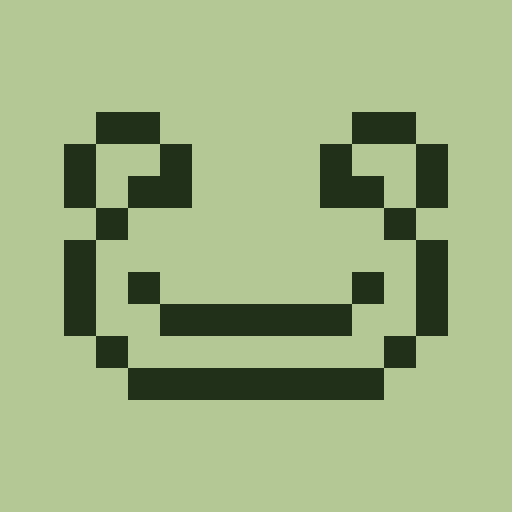
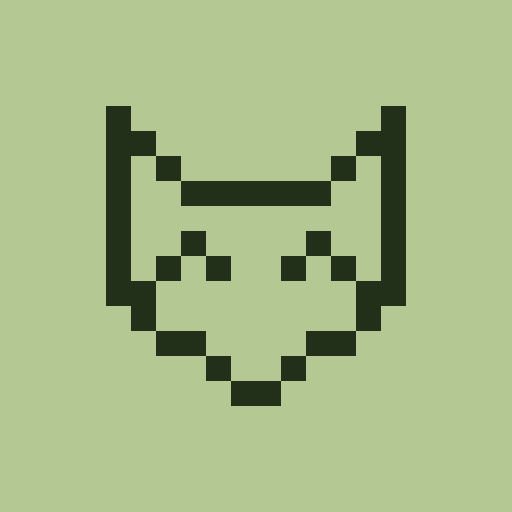
Fox, owl and witch moods; align bars; hide pace tick when over

Changed region(s): [[0.125, 0.1875, 0.875, 0.8125], [0.75, 0.6562, 0.8125, 0.7188], [0.1875, 0.6562, 0.25, 0.7188]]

diff --git a/index.html b/index.html
@@ -23,19 +23,22 @@ body{margin:0;min-height:100vh;background:radial-gradient(circle at 50% 0,#1d3a2
 .top{display:flex;justify-content:space-between;align-items:center;font-size:24px}
 .lcd button{background:none;border:0;font:inherit;color:inherit;cursor:pointer;padding:0 4px}
 .hero{display:flex;align-items:center;gap:8px;margin:4px 0 6px}
-#pet{width:56px;height:42px;flex:none;shape-rendering:crispEdges;fill:var(--lcdi)}
+#pet{width:56px;height:56px;flex:none;shape-rendering:crispEdges;fill:var(--lcdi)}
 #pet .w{fill:var(--wine)}
 #say{font-size:20px;white-space:nowrap;min-width:0;overflow:hidden;text-overflow:ellipsis}
 #cats .sal{padding-bottom:4px;margin-bottom:4px;border-bottom:1px dashed #22301a55}
 .s0 #pet{animation:hop 1.4s steps(1) infinite}
+.s1 #pet{animation:lk 2.4s steps(1) infinite}
 .s2 #pet{animation:sh .5s steps(1) infinite}
+@keyframes lk{33%{transform:translateX(-2px)}66%{transform:translateX(2px)}}
 .s2 #say{color:var(--wine);animation:bl 1s steps(1) infinite}
 @keyframes hop{50%{transform:translateY(-3px)}}
 @keyframes sh{25%{transform:translateX(-2px)}75%{transform:translateX(2px)}}
 @keyframes bl{50%{opacity:0}}
 @media(prefers-reduced-motion:reduce){*{animation:none!important}}
 #tot{font-size:clamp(40px,12vw,56px);line-height:1;margin-left:auto}
-#cats div{display:grid;grid-template-columns:80px 1fr auto;gap:8px;align-items:center;font-size:19px;line-height:1.2;cursor:pointer}
+#cats{display:grid;grid-template-columns:80px 1fr auto;column-gap:8px}
+#cats div{grid-column:1/-1;display:grid;grid-template-columns:subgrid;align-items:center;font-size:19px;line-height:1.2;cursor:pointer}
 #cats span{overflow:hidden;white-space:nowrap}
 .m{position:relative;display:grid;grid-template-columns:repeat(12,1fr);gap:1px;height:10px}
 .m i{background:#22301a26}
@@ -103,10 +106,10 @@ const h=s=>String(s).replace(/[&<>"]/g,c=>'&#'+c.charCodeAt(0)+';');
 const today=()=>{const t=new Date();return`${t.getFullYear()}-${pad(t.getMonth()+1)}-${pad(t.getDate())}`};
 const dl=(name,txt,type)=>{const a=document.createElement('a');a.href=URL.createObjectURL(new Blob([txt],{type}));a.download=name;a.click()};
 
-const PET=[ // frog: calm, uneasy, alarmed
- ['.11......11.','1..1....1..1','1.11....11.1','.1........1.','1..........1','1.1......1.1','1..111111..1','.1........1.','..11111111..'],
- ['.11......11.','1..1....1..1','1..11...1.11','.1........1.','1..........1','1..........1','1..111111..1','.1........1.','..11111111..'],
- ['.11......11.','1..1....1..1','1.11....11.1','.1........1.','1....22....1','1...2..2...1','1...2..2...1','.1...22...1.','..11111111..']];
+const PET=[ // fox: happy, owl: cautious, witch: mad
+ ['1..........1','11........11','1.1......1.1','1..111111..1','1..........1','1..1....1..1','1.1.1..1.1.1','11........11','.1........1.','..11....11..','....1..1....','.....11.....'],
+ ['.1........1.','.11......11.','.1.111111.1.','1..........1','1.111..111.1','1.1.1..1.1.1','1.111..111.1','1....11....1','.1...11...1.','.1........1.','..11.11.11..'],
+ ['.....11.....','....1..1....','...1....1...','..22222222..','111111111111','.1........1.','.11......11.','.1.1....1.1.','.1.2....2.1.','.1........1.','.1..1111..1.','.1.1....1.1.','..11111111..']];
 
 function cats(sel){$('#cat').innerHTML=S.c.map(c=>`<option>${h(c)}</option>`).join('')+'<option value="+">+ new</option>';if(sel)$('#cat').value=sel}
 
@@ -127,11 +130,12 @@ function R(){
   Object.keys(S.b).forEach(c=>by[c]=by[c]||0);
   const T=Object.entries(by).sort((a,b)=>b[1]-a[1]),mx=Math.max(1,...T.map(t=>t[1]));
   let ws=S.s?lvl(t/S.s):0,worst=ws?(ws>1?'!':'~'):'';
-  $('#cats').innerHTML=(S.s?`<div data-s class="sal"><span>Left</span>${bar(t/S.s,ws>1?' over':'',tk)}<span>${f(S.s-t)}</span></div>`:`<div data-s class="sal"><span>Salary</span>${bar(0,'','')}<span>—</span></div>`)+T.map(([c,v])=>{
+  $('#cats').innerHTML=(S.s?`<div data-s class="sal"><span>Left</span>${bar(t/S.s,ws>1?' over':'',ws>1?'':tk)}<span>${f(S.s-t)}</span></div>`:`<div data-s class="sal"><span>Salary</span>${bar(0,'','')}<span>—</span></div>`)+T.map(([c,v])=>{
     const b=S.b[c],r=b?v/b:v/mx,l=b?lvl(r):0;
     if(l>ws){ws=l;worst=c+(l>1?' !':' ~')}
-    return `<div data-c="${h(c)}"><span>${h(c)}</span>${bar(r,(b?'':' nb')+(l>1?' over':''),b?tk:'')}<span>${f(v)}</span></div>`;
+    return `<div data-c="${h(c)}"><span>${h(c)}</span>${bar(r,(b?'':' nb')+(l>1?' over':''),b&&l<2?tk:'')}<span>${f(v)}</span></div>`;
   }).join('');
+  $('#pet').setAttribute('viewBox',`0 0 12 ${PET[ws].length}`);
   $('#pet').innerHTML=PET[ws].flatMap((row,y)=>[...row].map((ch,x)=>ch==='.'?'':`<rect x="${x}" y="${y}" width="1" height="1"${ch==='2'?' class="w"':''}/>`)).join('');
   $('.lcd').className='lcd s'+ws;
   $('#say').textContent=worst;

diff --git a/sw.js b/sw.js
@@ -1,5 +1,5 @@
-// offline: serve from cache, refresh cache in the background
-const C='momoney-v1',A=['./','./index.html','./manifest.webmanifest','./icon-192.png','./icon-512.png'];
+// offline: serve from cache, refresh cache in the background
+const C='momoney-v2',A=['./','./index.html','./manifest.webmanifest','./icon-192.png','./icon-512.png'];
 self.oninstall=e=>e.waitUntil(caches.open(C).then(c=>c.addAll(A)).then(()=>self.skipWaiting()));
 self.onactivate=e=>e.waitUntil(caches.keys().then(k=>Promise.all(k.filter(x=>x!==C).map(x=>caches.delete(x)))).then(()=>self.clients.claim()));
 self.onfetch=e=>{
